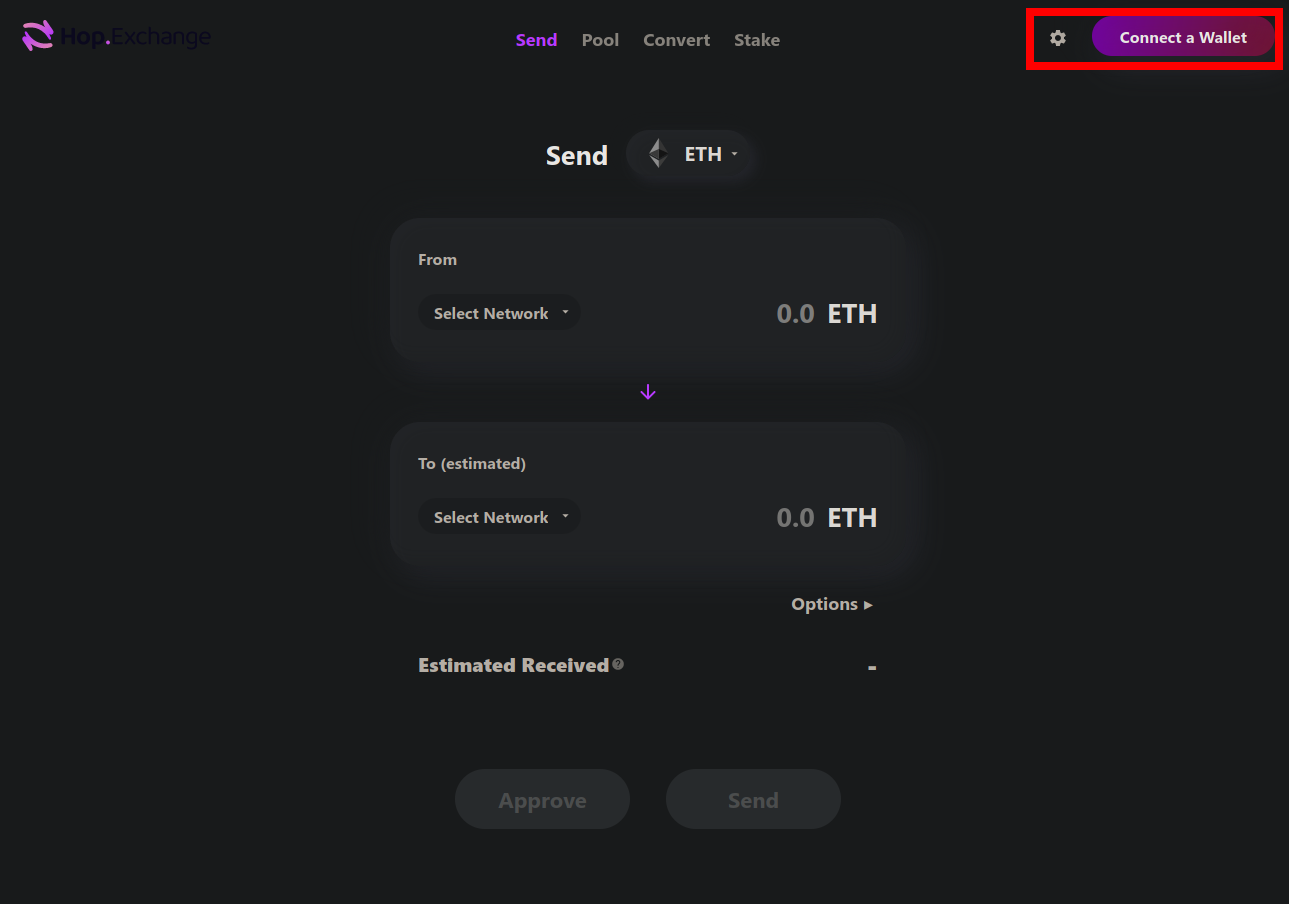
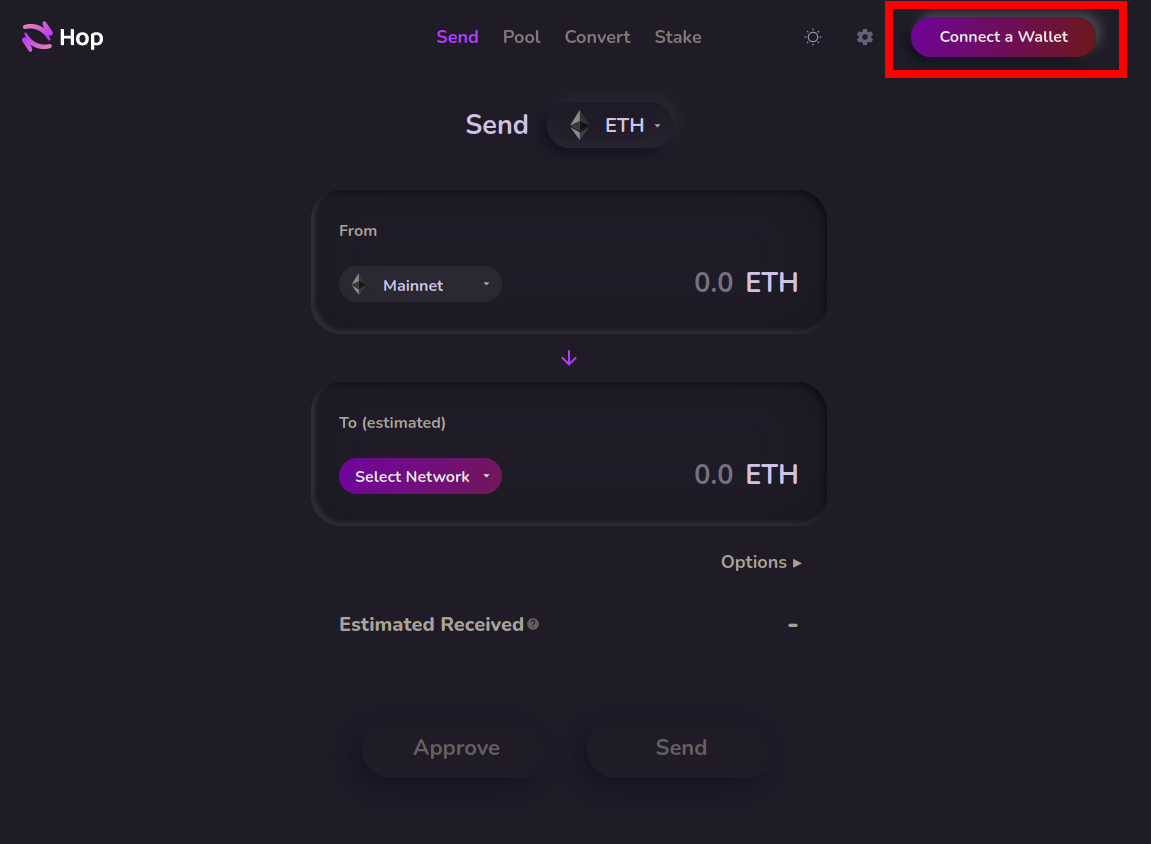
Updated the hybrid / native guides for Prysm, updated staking via RP with new Hop screenshots

diff --git a/src/guides/node/native.md b/src/guides/node/native.md
@@ -662,7 +662,7 @@ Type=simple
 User=rp
 Restart=always
 RestartSec=5
-ExecStart=/srv/nimbus/nimbus --non-interactive --network=mainnet --data-dir=/srv/nimbus/nimbus_data --insecure-netkey-password --validators-dir=/srv/rocketpool/data/validators/nimbus/validators --secrets-dir=/srv/rocketpool/data/validators/nimbus/secrets --graffiti="RP Nimbus" --web3-url=ws://localhost:8546 --tcp-port=9001 --udp-port=9001 --rpc --rpc-port=5052
+ExecStart=/srv/nimbus/nimbus --non-interactive --network=mainnet --data-dir=/srv/nimbus/nimbus_data --insecure-netkey-password --validators-dir=/srv/rocketpool/data/validators/nimbus/validators --secrets-dir=/srv/rocketpool/data/validators/nimbus/secrets --graffiti="RP Nimbus" --web3-url=ws://localhost:8546 --tcp-port=9001 --udp-port=9001 --rpc --rpc-port=5052 --num-threads=0
 
 [Install]
 WantedBy=multi-user.target
@@ -730,7 +730,7 @@ Type=simple
 User=eth2
 Restart=always
 RestartSec=5
-ExecStart=/srv/prysm/beacon-chain --accept-terms-of-use --mainnet --datadir /srv/prysm/prysm_data --p2p-tcp-port 9001 --p2p-udp-port 9001 --http-web3provider http://localhost:8545 --rpc-port 5052 --eth1-header-req-limit 150
+ExecStart=/srv/prysm/beacon-chain --accept-terms-of-use --mainnet --datadir /srv/prysm/prysm_data --p2p-tcp-port 9001 --p2p-udp-port 9001 --http-web3provider http://localhost:8545 --rpc-port 5053 --grpc-gateway-port 5052 --eth1-header-req-limit 150
 
 [Install]
 WantedBy=multi-user.target
@@ -740,7 +740,7 @@ WantedBy=multi-user.target
 The above configuration is for the **Ethereum mainnet**.
 If you want to use the **Prater testnet** instead, replace the `ExecStart` string with the following:
 ```
-ExecStart=/srv/prysm/beacon-chain --accept-terms-of-use --prater --genesis-state /srv/prysm/genesis.ssz --datadir /srv/prysm/prysm_data --p2p-tcp-port 9001 --p2p-udp-port 9001 --http-web3provider http://localhost:8545 --rpc-port 5052 --eth1-header-req-limit 150
+ExecStart=/srv/prysm/beacon-chain --accept-terms-of-use --prater --genesis-state /srv/prysm/genesis.ssz --datadir /srv/prysm/prysm_data --p2p-tcp-port 9001 --p2p-udp-port 9001 --http-web3provider http://localhost:8545 --rpc-port 5053 --grpc-gateway-port 5052 --eth1-header-req-limit 150
 ```
 :::
 
@@ -827,7 +827,7 @@ Type=simple
 User=eth2
 Restart=always
 RestartSec=5
-ExecStart=taskset 0x01 ionice -c 2 -n 0 /srv/nimbus/nimbus --max-peers=60 --non-interactive --network=mainnet --data-dir=/mnt/rpdata/nimbus_data --insecure-netkey-password --validators-dir=/srv/rocketpool/data/validators/nimbus/validators --secrets-dir=/srv/rocketpool/data/validators/nimbus/secrets --graffiti="RP Nimbus" --web3-url=ws://localhost:8546 --tcp-port=9001 --udp-port=9001 --rpc --rpc-port=5052
+ExecStart=ionice -c 2 -n 0 /srv/nimbus/nimbus --max-peers=60 --non-interactive --network=mainnet --data-dir=/mnt/rpdata/nimbus_data --insecure-netkey-password --validators-dir=/srv/rocketpool/data/validators/nimbus/validators --secrets-dir=/srv/rocketpool/data/validators/nimbus/secrets --graffiti="RP Nimbus" --web3-url=ws://localhost:8546 --tcp-port=9001 --udp-port=9001 --rpc --rpc-port=5052 --num-threads=0
 
 [Install]
 WantedBy=multi-user.target
@@ -902,7 +902,7 @@ Type=simple
 User=eth2
 Restart=always
 RestartSec=5
-ExecStart=ionice -c 2 -n 0 /srv/prysm/beacon-chain --accept-terms-of-use --mainnet --datadir /mnt/rpdata/prysm_data --p2p-tcp-port 9001 --p2p-udp-port 9001 --http-web3provider http://localhost:8545 --rpc-port 5052 --eth1-header-req-limit 150
+ExecStart=ionice -c 2 -n 0 /srv/prysm/beacon-chain --accept-terms-of-use --mainnet --datadir /mnt/rpdata/prysm_data --p2p-tcp-port 9001 --p2p-udp-port 9001 --http-web3provider http://localhost:8545 --rpc-port 5053 --grpc-gateway-port 5052 --eth1-header-req-limit 150
 
 [Install]
 WantedBy=multi-user.target
@@ -912,7 +912,7 @@ WantedBy=multi-user.target
 The above configuration is for the **Ethereum mainnet**.
 If you want to use the **Prater testnet** instead, replace the `ExecStart` string with the following:
 ```
-ExecStart=ionice -c 2 -n 0 /srv/prysm/beacon-chain --accept-terms-of-use --prater --genesis-state /srv/prysm/genesis.ssz --datadir /mnt/rpdata/prysm_data --p2p-tcp-port 9001 --p2p-udp-port 9001 --http-web3provider http://localhost:8545 --rpc-port 5052 --eth1-header-req-limit 150
+ExecStart=ionice -c 2 -n 0 /srv/prysm/beacon-chain --accept-terms-of-use --prater --genesis-state /srv/prysm/genesis.ssz --datadir /mnt/rpdata/prysm_data --p2p-tcp-port 9001 --p2p-udp-port 9001 --http-web3provider http://localhost:8545 --rpc-port 5053 --grpc-gateway-port 5052 --eth1-header-req-limit 150
 ```
 :::
 
@@ -1082,7 +1082,7 @@ Type=simple
 User=rp
 Restart=always
 RestartSec=5
-ExecStart=/srv/prysm/validator --accept-terms-of-use --mainnet --wallet-dir /srv/rocketpool/data/validators/prysm-non-hd --wallet-password-file /srv/rocketpool/data/validators/prysm-non-hd/direct/accounts/secret --beacon-rpc-provider "localhost:5052" --graffiti "RP Prysm"
+ExecStart=/srv/prysm/validator --accept-terms-of-use --mainnet --wallet-dir /srv/rocketpool/data/validators/prysm-non-hd --wallet-password-file /srv/rocketpool/data/validators/prysm-non-hd/direct/accounts/secret --beacon-rpc-provider "localhost:5053" --graffiti "RP Prysm"
 
 [Install]
 WantedBy=multi-user.target

diff --git a/src/guides/staking/via-rp.md b/src/guides/staking/via-rp.md
@@ -3,13 +3,17 @@
 The easiest way to stake with Rocket Pool is done via its web interface to the underlying smart contracts.
 
 The advantage is that you will always get exactly as much rETH as your ETH is worth, since Rocket Pool's contracts will directly mint the rETH that you receive.
-No hidden fees, no 
+No extra fees, no slippage, no liquidity issues, no sandwiching or front running... you just get the best possible deal for rETH.
 
 The disadvantage is that the gas fee might be quite expensive if you are staking a small amount of ETH - **we strongly recommend you check this before approving the transaction.**
+Also, there is a limit to the amount of ETH that can be in the pool at any given time, so it's possible that the pool could be full until Node Operators pull ETH from it and stake that ETH on the Beacon Chain.
 
 ::: warning NOTE
 If you stake directly with Rocket Pool, your rETH tokens will be **locked to your account for 24 hours** before you can transfer them or use them in DeFi applications.
 This is a security measure to prevent against timing attacks.
+If you get your rETH from a decentralized exchange, your rETH will **not be locked**.
+
+Please take this into consideration when deciding whether or not to stake directly via Rocket Pool.
 :::
 
 The process is slightly different for the Prater Testnet and Mainnet, so choose the network you are interested in from the tabs below.

diff --git a/src/guides/node/hybrid.md b/src/guides/node/hybrid.md
@@ -161,25 +161,36 @@ You will have to use a different ETH2 validator client.**
 
 Below are examples how how to configure this for each ETH2 client by modifying its command line arguments:
 
-:::: tabs
-::: tab Lighthouse
+::::: tabs
+:::: tab Lighthouse
 ```
 lighthouse beacon ... --http --http-address 0.0.0.0 --http-port 5052
 ```
-:::
+::::
 
-::: tab Prysm
+:::: tab Prysm
 ```
-beacon-chain ... --rpc-host 0.0.0.0 --rpc-port 5052
+beacon-node ... --rpc-host 0.0.0.0 --rpc-port 5053 --grpc-gateway-host 0.0.0.0 --grpc-gateway-port 5052
 ```
-:::
 
-::: tab Teku
+::: warning NOTE
+Prysm temporarily must use both the standard REST API (`--grpc-gateway-host`) and the legacy RPC API (`--rpc-host`).
+If you have an existing external Validator Client for Prysm, you will need to modify its `--beacon-rpc-provider` flag to use port 5053 instead of 5052:
+
+```
+--beacon-rpc-provider http://<your address>:5053
+```
+
+This will be removed in a later version when the Prysm Validator Client can connect to the Beacon Node using the REST API.
+:::
+::::
+
+:::: tab Teku
 ```
 teku ... --rest-api-enabled --rest-api-interface 0.0.0.0 --rest-api-port 5052 --rest-api-host-allowlist=*
 ```
-:::
 ::::
+:::::
 
 Once you have ensured that configuration, restart your ETH2 client so the new settings take effect.
 
